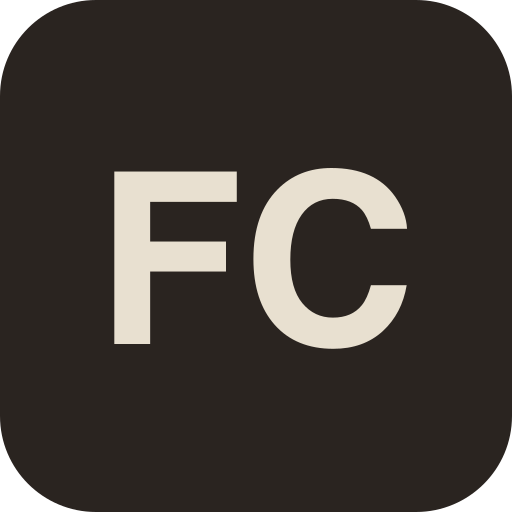
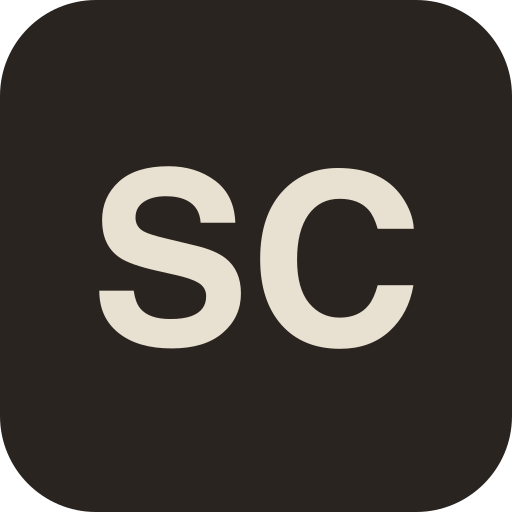
Portal is Song Club again; the live series is back to Fresh Cuts
The Fresh Cuts name now belongs only to the Birdhaus live series, so the
portal's identity goes back to Song Club:

- PORTAL_SITE_NAME / PORTAL_DESCRIPTION read "Song Club", which carries
  through the portal shell wordmark, "%s · Song Club" tab titles, og/twitter
  names, the iOS home-screen title, page copy, member emails, and the email
  sender name ("Song Club <same address>"). PORTAL_NAME is "Song Club" on
  both hosts; heading/place keep their "portal" wording until the split.
- Portal manifest name/description, and the placeholder icon set
  (public/portal/) now reads "SC".
- The Song Club logo artwork shows on the portal host again.
- Main nav portal link reads "Song Club".

Reverts the "Fresh Cuts Live" relabel: the /fresh-cuts title, description,
empty state, admin editor label, default heading/body copy, and the Projects
menu item read "Fresh Cuts". A page_content row saved as "FRESH CUTS LIVE"
from the admin editor still overrides the heading and needs re-saving.

The series page → portal link and the portal footer's "Live nights" link
stay. Domain, host routing, and routes are unchanged.

diff --git a/lib/site.ts b/lib/site.ts
@@ -38,19 +38,18 @@ export function isPortalHost(host: string | null): boolean {
 export const SITE_NAME = 'the BIRDHAUS';
 
 // The portal's own identity on its host (titles, link previews, manifest).
-export const PORTAL_SITE_NAME = 'Fresh Cuts';
-export const PORTAL_DESCRIPTION = 'Fresh Cuts — songs, events, and the group thread.';
+export const PORTAL_SITE_NAME = 'Song Club';
+export const PORTAL_DESCRIPTION = 'Song Club — songs, events, and the group thread.';
 
-// The portal's name in visible copy (pages, member emails, the main nav):
-// "Fresh Cuts" once the split is on, the old Song Club wording until then.
-// Three forms because the old copy said "Song Club", "Song Club portal", and
-// "the Song Club portal" in different spots.
-export const PORTAL_NAME = PORTAL_SPLIT ? PORTAL_SITE_NAME : 'Song Club';
+// The portal's name in visible copy (pages, member emails): "Song Club" on
+// both hosts. The heading and place forms drop the "portal" wording once the
+// split is on, since the portal host is then Song Club itself.
+export const PORTAL_NAME = PORTAL_SITE_NAME;
 export const PORTAL_HEADING = PORTAL_SPLIT ? PORTAL_SITE_NAME : 'Song Club portal';
 export const PORTAL_PLACE = PORTAL_SPLIT ? PORTAL_SITE_NAME : 'the Song Club portal';
 
 // Page titles that read "Song Club — <detail>" before the split; after it the
-// root template already appends "· Fresh Cuts", so just the detail.
+// root template already appends "· Song Club", so just the detail.
 export function portalPageTitle(detail: string): string {
   return PORTAL_SPLIT ? detail.charAt(0).toUpperCase() + detail.slice(1) : `Song Club — ${detail}`;
 }

diff --git a/app/fresh-cuts/page.tsx b/app/fresh-cuts/page.tsx
@@ -10,9 +10,9 @@ import { PORTAL_NAME, PORTAL_SPLIT, PORTAL_URL } from '@/lib/site';
 export const dynamic = 'force-dynamic';
 
 export const metadata = {
-  title: 'Fresh Cuts Live | The Birdhaus',
+  title: 'Fresh Cuts | The Birdhaus',
   description:
-    'Fresh Cuts Live is The Birdhaus event series spotlighting brand-new material from Twin Cities artists — a recurring night built for first listens and fresh starts.',
+    'Fresh Cuts is The Birdhaus event series spotlighting brand-new material from Twin Cities artists — a recurring night built for first listens and fresh starts.',
 };
 
 // Fresh Cuts installments are numbered (v1, v2, ...) and always carry
@@ -46,7 +46,7 @@ export default async function FreshCutsPage() {
       <div className="max-w-4xl mx-auto">
         <FreshCutsIntro content={content} isAdmin={isAdmin} />
 
-        {/* The songwriter portal shares the name; point people at it. */}
+        {/* Point songwriters at the portal. */}
         <p className="mb-12 text-sm text-[#E8E0D0]/60">
           Writing new songs between nights? Share them on{' '}
           <a
@@ -89,7 +89,7 @@ export default async function FreshCutsPage() {
 
         {upcoming.length === 0 && past.length === 0 && (
           <p className="text-[#E8E0D0]/60">
-            No Fresh Cuts Live shows on the books yet — check back soon.
+            No Fresh Cuts shows on the books yet — check back soon.
           </p>
         )}
       </div>

diff --git a/lib/page-content.ts b/lib/page-content.ts
@@ -16,11 +16,11 @@ export interface FreshCutsContent {
 // override any of this; anything the row omits falls back to here.
 export const FRESH_CUTS_DEFAULT: FreshCutsContent = {
   eyebrow: 'A Birdhaus Event Series',
-  title: 'FRESH CUTS LIVE',
+  title: 'FRESH CUTS',
   tagline:
     "A recurring night built for first listens — new bands, new songs, and material that hasn't left the practice space until now.",
   body: [
-    "Fresh Cuts Live is a showcase for what's next. Every installment stacks the bill with emerging Twin Cities artists and asks each of them to bring something new — a debut set, an unreleased song, a side project's first-ever show. It's a low-stakes, high-energy room where trying something out in front of a crowd is the whole point.",
+    "Fresh Cuts is a showcase for what's next. Every installment stacks the bill with emerging Twin Cities artists and asks each of them to bring something new — a debut set, an unreleased song, a side project's first-ever show. It's a low-stakes, high-energy room where trying something out in front of a crowd is the whole point.",
     "The series runs a few times a year, and the numbers keep climbing (we're well past v1). Each night we record every set, so a band's first pass at a new tune lives on in the archive.",
   ],
   valuesHeading: 'What it adds to the scene',

diff --git a/components/Header.tsx b/components/Header.tsx
@@ -3,7 +3,7 @@
 import Link from 'next/link';
 import Image from 'next/image';
 import { usePathname, useRouter } from 'next/navigation';
-import { PORTAL_NAME, portalRedirect } from '@/lib/site';
+import { portalRedirect } from '@/lib/site';
 import { useEffect, useRef, useState } from 'react';
 import { cloudinaryTransform } from '@/lib/cloudinary-url';
 
@@ -27,14 +27,14 @@ type NavItem = NavLink | NavDropdown;
 const navItems: NavItem[] = [
   { type: 'link', href: '/upcoming', label: 'Upcoming Shows' },
   { type: 'link', href: '/archive', label: 'Archive' },
-  { type: 'link', href: portalRedirect('/song-club'), label: PORTAL_NAME },
+  { type: 'link', href: portalRedirect('/song-club'), label: 'Song Club' },
   {
     type: 'dropdown',
     label: 'Projects',
     children: [
       { href: 'https://birdhausrecords.bandcamp.com', label: 'Birdhaus Records', external: true },
       { href: 'https://twinscene.org', label: 'Twin Scene', external: true },
-      { href: '/fresh-cuts', label: 'Fresh Cuts Live' },
+      { href: '/fresh-cuts', label: 'Fresh Cuts' },
     ],
   },
   { type: 'link', href: '/contact', label: 'Contact' },

diff --git a/components/portal/PortalShell.tsx b/components/portal/PortalShell.tsx
@@ -9,7 +9,7 @@ const footerLink = 'underline-offset-2 transition hover:text-[#E8E0D0]/70 hover:
 const navLink =
   'text-[#E8E0D0]/70 underline-offset-2 transition hover:text-[#E8E0D0] hover:underline';
 
-// Site chrome for the portal host (Fresh Cuts): wordmark, portal-only nav,
+// Site chrome for the portal host (Song Club): wordmark, portal-only nav,
 // and a small footer back to the Birdhaus. Replaces the Birdhaus Header there;
 // the root layout picks one or the other by host.
 export default async function PortalShell({ children }: { children: React.ReactNode }) {
@@ -20,7 +20,7 @@ export default async function PortalShell({ children }: { children: React.ReactN
     <>
       <header className="mx-auto flex w-full max-w-3xl flex-wrap items-center justify-between gap-x-6 gap-y-3 px-5 pt-6 pb-2 sm:px-8">
         <Link href="/" className="text-lg font-semibold tracking-wide text-[#E8E0D0]">
-          Fresh Cuts
+          Song Club
         </Link>
         <nav className="flex flex-wrap items-center gap-x-4 gap-y-2 text-sm">
           <Link href="/" className={navLink}>

diff --git a/components/club/SongClubLogo.tsx b/components/club/SongClubLogo.tsx
@@ -1,7 +1,6 @@
 'use client';
 
 import { useEffect, useState } from 'react';
-import { PORTAL_SPLIT } from '@/lib/site';
 
 // The Song Club logo, clickable to view full-screen over a scrim (like a photo
 // lightbox). Close by clicking the scrim, hitting Escape, or the ✕. Kept as a
@@ -23,9 +22,6 @@ export default function SongClubLogo({ className = 'h-16 w-16' }: { className?: 
       document.body.style.overflow = prevOverflow;
     };
   }, [open]);
-
-  // Song Club artwork; with the split on these pages are the Fresh Cuts portal.
-  if (PORTAL_SPLIT) return null;
 
   return (
     <>

diff --git a/app/account/page.tsx b/app/account/page.tsx
@@ -9,7 +9,7 @@ import AccountSettings from '@/components/club/AccountSettings';
 // header already provides nav). Linked from the header user menu so crew /
 // photographers manage their account without going through a Song-Club-branded
 // page. Any logged-in user can reach it.
-// Shared by both hosts; the portal's root title template adds "· Fresh Cuts".
+// Shared by both hosts; the portal's root title template adds "· Song Club".
 export async function generateMetadata(): Promise<Metadata> {
   return {
     title: (await onPortalHost()) ? 'Account' : 'The Birdhaus — account',

diff --git a/next.config.ts b/next.config.ts
@@ -52,7 +52,7 @@ function portalSplitRewrites() {
   const onPortal = [{ type: 'host' as const, value: portalHost }];
   return [
     { source: '/', has: onPortal, destination: '/song-club' },
-    // Fresh Cuts icons + manifest (public/portal/) in place of the Birdhaus
+    // Song Club icons + manifest (public/portal/) in place of the Birdhaus
     // ones, which stay static app routes on the main host.
     { source: '/favicon.ico', has: onPortal, destination: '/portal/favicon-48.png' },
     { source: '/icon.png', has: onPortal, destination: '/portal/icon-32.png' },

diff --git a/app/song-club/invite/[token]/page.tsx b/app/song-club/invite/[token]/page.tsx
@@ -5,7 +5,7 @@ import ClubSetPasswordForm from '@/components/club/ClubSetPasswordForm';
 import { PORTAL_HEADING, PORTAL_NAME, PORTAL_PLACE, PORTAL_SPLIT } from '@/lib/site';
 
 export const metadata: Metadata = {
-  // Absolute on the portal so it isn't "Join Fresh Cuts · Fresh Cuts".
+  // Absolute on the portal so it isn't "Join Song Club · Song Club".
   title: PORTAL_SPLIT ? { absolute: `Join ${PORTAL_NAME}` } : `Join ${PORTAL_NAME}`,
   robots: { index: false, follow: false },
 };

diff --git a/app/song-club/page.tsx b/app/song-club/page.tsx
@@ -11,7 +11,7 @@ import ClubUserMenu from '@/components/club/ClubUserMenu';
 import { PORTAL_NAME, PORTAL_SPLIT } from '@/lib/site';
 
 export const metadata: Metadata = {
-  // Absolute on the portal so it isn't "Fresh Cuts · Fresh Cuts".
+  // Absolute on the portal so it isn't "Song Club · Song Club".
   title: PORTAL_SPLIT ? { absolute: PORTAL_NAME } : PORTAL_NAME,
   description: 'A Birdhaus songwriting community — events, songs, and the group thread.',
 };

diff --git a/components/FreshCutsIntro.tsx b/components/FreshCutsIntro.tsx
@@ -87,7 +87,7 @@ export default function FreshCutsIntro({
       <div className="mb-16 rounded-lg border border-yellow-500/40 bg-yellow-500/5 p-5">
         <div className="mb-4 flex items-center justify-between">
           <span className="font-mono text-xs uppercase tracking-widest text-yellow-500/80">
-            Editing Fresh Cuts Live copy
+            Editing Fresh Cuts copy
           </span>
           <div className="flex gap-2">
             <button

diff --git a/app/layout.tsx b/app/layout.tsx
@@ -91,7 +91,7 @@ export default async function RootLayout({
   children: React.ReactNode;
 }>) {
   // Every page already renders per request (isAdminSession reads cookies), so
-  // the host check adds no dynamism. Portal host → Fresh Cuts shell.
+  // the host check adds no dynamism. Portal host → Song Club shell.
   const [isAdmin, portal] = await Promise.all([isAdminSession(), onPortalHost()]);
 
   return (
